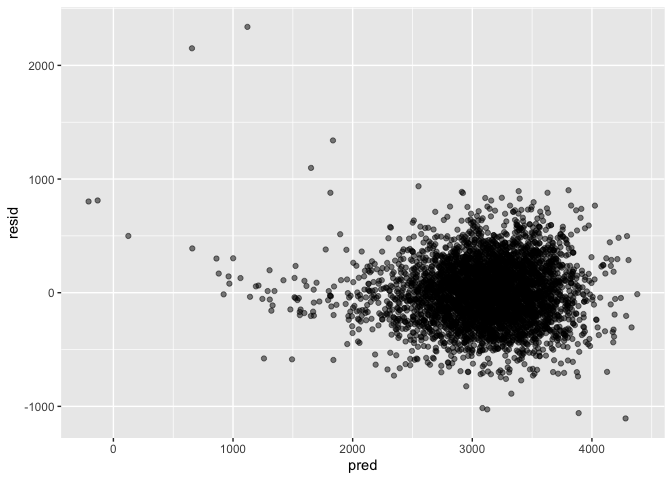
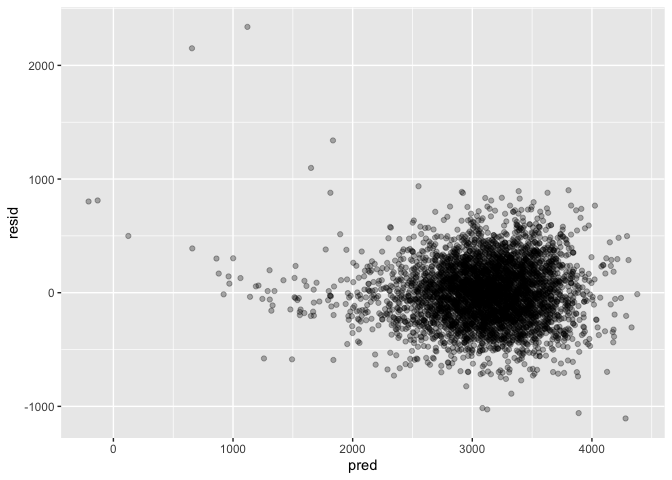
Finished Problem 2

diff --git a/p8105_hw6_bsr2136.md b/p8105_hw6_bsr2136.md
@@ -11,7 +11,7 @@ dir.create("files_for_hw6")
 
 ## Problem 1
 
-### Loading the data, Cleaning it, and Checking for Missing Values
+### Loading the data, cleaning it, and checking for missing values
 
 ``` r
 birthwt <- read_csv("./files_for_hw6/birthweight.csv")
@@ -93,7 +93,7 @@ map(birthwt, ~sum(is.na(.)))
 There are no missing values, and the 4 categorical variables are now
 factors.
 
-### Proposed Regression Model
+### Proposed regression model
 
 I’m using the step function, followed by checking the LM Adjusted
 R-Squared, and RSS to determine the optimal model. I’m hiding the
@@ -125,27 +125,27 @@ I first built the model using the step function with direction =
 “backwards”, which initially builds the model with all variables as
 predictors, then removes them one at a time and tests if the AIC
 decreases (which is indicative of better model fit). The model that the
-step function returned was:
+step function returned
+was:
 
-lm(formula = bwt ~ babysex + bhead + blength + delwt + fincome + gaweeks
-+ mheight + mrace + parity + ppwt + smoken, data = birthwt)
+lm(formula=bwt~babysex+bhead+blength+delwt+fincome+gaweeks+mheight+mrace+parity+ppwt+smoken,data=birthwt)
 
 I checked a summary of the model, and then removed the least significant
 variables and checked to see if the model’s Adjusted R-Squared decreased
 significantly, and used an anova to test if the RSS was significantly
-decreased due to the additional variable. What I found was that removing
-“fincome” did not decrease the adjusted R-squared very much, and
-including “fincome” did not decrease the RSS very significantly, so I
-removed fincome from the model as well. I checked if removing “parity”
-would be similar, but the adjusted R-squared did decrease a bit, and an
-anova test suggested that including “parity” actually did decrease the
-RSS to a significant degree, so I left “parity” in the model, and my
-final model was:
+decreased due to inclusion of the additional variable. What I found was
+that removing “fincome” did not decrease the adjusted R-squared very
+much, and including “fincome” did not decrease the RSS very
+significantly, so I removed “fincome” from the model as well. I checked
+if removing “parity” would be similar, but the adjusted R-squared did
+decrease a bit, and an anova test suggested that including “parity”
+actually did decrease the RSS to a significant degree, so I left
+“parity” in the model, and my final model
+was:
 
-lm(formula = bwt ~ babysex + bhead + blength + delwt + gaweeks + mheight
-+ mrace + parity + ppwt + smoken, data = birthwt)
+lm(formula=bwt~babysex+bhead+blength+delwt+gaweeks+mheight+mrace+parity+ppwt+smoken,data=birthwt)
 
-### Plotting Residuals Against Fitted Values
+### Plotting residuals against fitted values
 
 ``` r
 birthwtdf <- add_residuals(birthwt, prop_reg_model2)
@@ -153,7 +153,7 @@ birthwtdf <- add_predictions(birthwtdf, prop_reg_model2)
 
 birthwtdf %>%
   ggplot(aes(x=pred,y=resid)) + 
-  geom_point(alpha=.5)
+  geom_point(alpha=.3)
 ```
 
 ![](p8105_hw6_bsr2136_files/figure-gfm/p1%20plot-1.png)<!-- -->
@@ -165,8 +165,7 @@ predictor.
 ### Comparing the model with 2 others by plotting prediction error distributions
 
 ``` r
-model1 <- lm(bwt ~ blength + gaweeks, data = birthwt)
-model2 <- lm(bwt ~ bhead * blength * babysex, data = birthwt)
+set.seed(1)
 
 cv_df <- crossv_mc(birthwt,100)
 
@@ -202,7 +201,7 @@ good a fit.
 
 ## Problem 2
 
-### Loading the data, Bootstrap, models, and results
+### Loading the data, bootstrap, models, and results
 
 ``` r
 weather_df = 
@@ -216,23 +215,9 @@ weather_df =
     tmin = tmin / 10,
     tmax = tmax / 10) %>%
   select(name, id, everything())
-```
 
-    ## Registered S3 method overwritten by 'crul':
-    ##   method                 from
-    ##   as.character.form_file httr
+set.seed(10)
 
-    ## Registered S3 method overwritten by 'hoardr':
-    ##   method           from
-    ##   print.cache_info httr
-
-    ## file path:          /Users/barikrajpal/Library/Caches/rnoaa/ghcnd/USW00094728.dly
-
-    ## file last updated:  2019-09-26 10:21:26
-
-    ## file min/max dates: 1869-01-01 / 2019-09-30
-
-``` r
 boots_df <- weather_df %>%
   bootstrap(n=5000) %>%
   mutate(
@@ -249,6 +234,18 @@ boots_df_r2 <- boots_df %>%
   unnest(results) %>%
   select(.id,r.squared)
 
+boots_df_r2 %>%
+  ggplot(aes(x=r.squared)) +
+  geom_histogram(bins = 30)
+```
+
+![](p8105_hw6_bsr2136_files/figure-gfm/p2%20rsquared%20plot-1.png)<!-- -->
+
+The distribution of the estimates looks fairly normal and is centered
+around .912. The fact that we are examining 5000 estimates (a very high
+n) serves to improve normality.
+
+``` r
 boots_df_r2 %>% 
   pull(r.squared) %>%
   as.vector() %>%
@@ -256,9 +253,12 @@ boots_df_r2 %>%
 ```
 
     ##      2.5%     97.5% 
-    ## 0.8936771 0.9271360
+    ## 0.8938410 0.9275271
 
-### Plotting log(b0\*b1) and constructing a 95$ confidence interval
+The 95% confidence interval for the r.squared estimates is
+(0.8938,0.9275).
+
+### Plotting log(b0\*b1) and constructing a 95% confidence interval
 
 ``` r
 boots_df_logb0b1 <- boots_df %>%
@@ -270,6 +270,18 @@ boots_df_logb0b1 <- boots_df %>%
   janitor::clean_names() %>%
   mutate(logb0b1 = log(intercept*tmin))
 
+boots_df_logb0b1 %>%
+  ggplot(aes(x=logb0b1)) +
+  geom_histogram(bins = 30)
+```
+
+![](p8105_hw6_bsr2136_files/figure-gfm/p2%20logb0b1%20plot-1.png)<!-- -->
+
+The distribution of the estimates looks fairly normal and is centered
+around 2.02. The fact that we are examining 5000 estimates (a very high
+n) serves to improve normality.
+
+``` r
 boots_df_logb0b1 %>% 
   pull(logb0b1) %>%
   as.vector() %>%
@@ -277,4 +289,7 @@ boots_df_logb0b1 %>%
 ```
 
     ##     2.5%    97.5% 
-    ## 1.966186 2.059551
+    ## 1.964572 2.059126
+
+The 95% confidence interval for the log(B0\*B1) estimates is
+(1.9646,2.0591).
